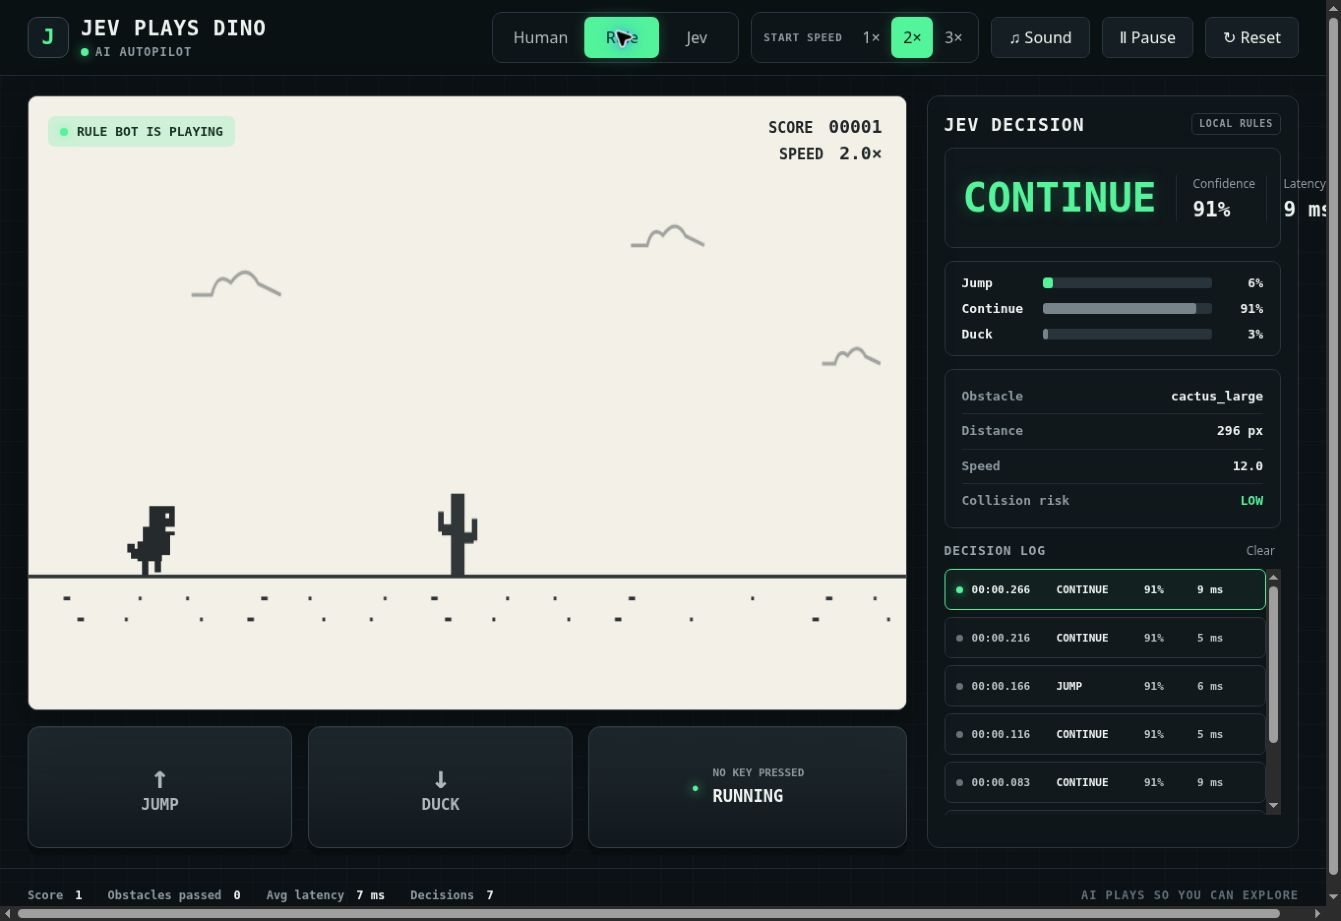
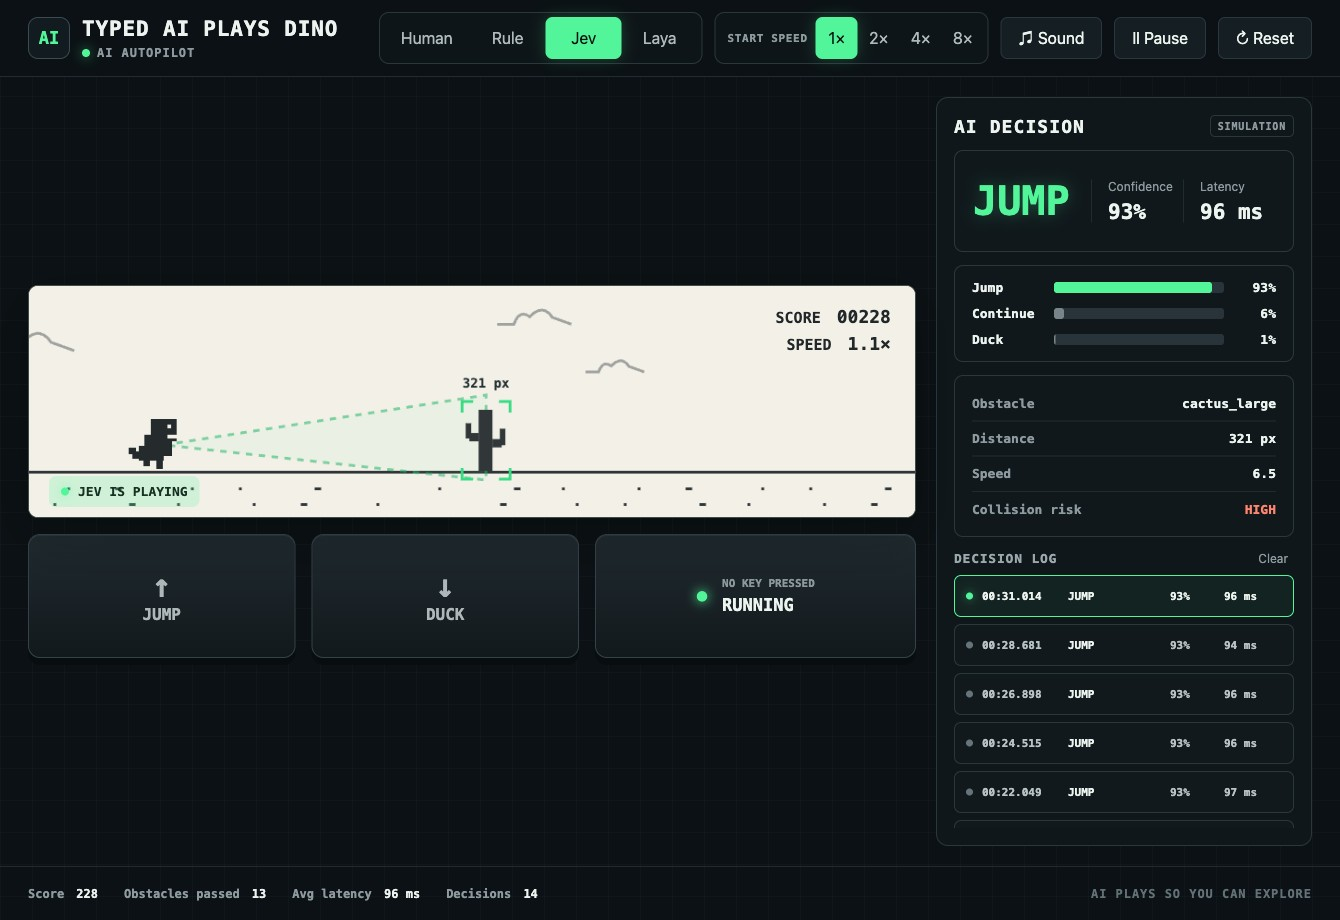
Add canvas aspect ratio handling and adjust dimensions for improved layout

diff --git a/web/styles.css b/web/styles.css
@@ -102,21 +102,20 @@ button { font: inherit; }
   padding: 20px 28px;
 }
 
-.game-column { min-width: 0; min-height: 0; display: flex; flex-direction: column; gap: 16px; }
+.game-column { min-width: 0; min-height: 0; display: flex; flex-direction: column; justify-content: center; gap: 16px; }
 .game-panel {
   position: relative;
-  min-height: 420px;
-  flex: 1;
   overflow: hidden;
   border: 1px solid #414b4b;
   border-radius: 10px;
   background: var(--cream);
   box-shadow: 0 18px 50px rgba(0,0,0,.2);
 }
-#game-canvas { display: block; width: 100%; height: 100%; min-height: 420px; }
-.game-badge, .canvas-stats { position: absolute; top: 20px; z-index: 2; }
-.game-badge { left: 20px; display: flex; align-items: center; gap: 9px; padding: 9px 12px; border-radius: 7px; color: #173123; background: rgba(82,245,154,.22); font: 700 13px/1 ui-monospace, SFMono-Regular, Menlo, monospace; }
-.canvas-stats { right: 24px; display: grid; gap: 5px; color: var(--ink); text-align: right; font: 700 15px/1.2 ui-monospace, SFMono-Regular, Menlo, monospace; }
+#game-canvas { display: block; width: 100%; aspect-ratio: 960 / 250; }
+.game-badge, .canvas-stats { position: absolute; z-index: 2; }
+/* 80% = GROUND / HEIGHT in app.js, so the badge sits just under the ground line at every panel width. */
+.game-badge { left: 20px; top: calc(80% + 4px); display: flex; align-items: center; gap: 9px; padding: 9px 12px; border-radius: 7px; color: #173123; background: rgba(82,245,154,.22); font: 700 13px/1 ui-monospace, SFMono-Regular, Menlo, monospace; }
+.canvas-stats { top: 20px; right: 24px; display: grid; gap: 5px; color: var(--ink); text-align: right; font: 700 15px/1.2 ui-monospace, SFMono-Regular, Menlo, monospace; }
 .canvas-stats strong { margin-left: 7px; font-size: 18px; }
 .game-over { position: absolute; inset: 0; z-index: 3; display: grid; place-content: center; gap: 12px; text-align: center; color: var(--ink); background: rgba(243,240,232,.88); backdrop-filter: blur(2px); }
 .game-over.hidden { display: none; }
@@ -192,7 +191,6 @@ button { font: inherit; }
   .app-shell { height: auto; min-height: 100vh; overflow: visible; }
   .workspace { min-height: auto; overflow: visible; grid-template-columns: 1fr; }
   .inspector { height: min(760px, calc(100dvh - 28px)); min-height: 640px; }
-  .game-panel { min-height: 480px; }
 }
 
 @media (max-width: 720px) {
@@ -205,13 +203,19 @@ button { font: inherit; }
   .control-button { padding: 0 12px; }
   .control-button span { display: none; }
   .workspace { padding: 14px 12px; }
-  .game-panel, #game-canvas { min-height: 360px; }
+  .game-badge { padding: 5px 8px; font-size: 11px; }
   .key-row { min-height: 108px; grid-template-columns: 1fr 1fr; }
   .running-state { grid-column: 1 / -1; min-height: 72px; }
   .decision-card { align-items: flex-start; flex-direction: column; }
   .decision-meta { width: 100%; }
   .statusbar { flex-wrap: wrap; gap: 10px 18px; padding: 12px 16px; }
   .footer-note { display: none; }
+}
+
+@media (max-width: 480px) {
+  .game-badge { display: none; }
+  .canvas-stats { top: 8px; right: 10px; gap: 2px; font-size: 11px; }
+  .canvas-stats strong { margin-left: 4px; font-size: 12px; }
 }
 
 @media (prefers-reduced-motion: reduce) {

diff --git a/web/app.test.js b/web/app.test.js
@@ -145,3 +145,41 @@ test("game speed presets are 1x, 2x, 4x, and 8x", () => {
   assert.deepEqual(speedButtons, [1, 2, 4, 8]);
   assert.match(app, /\[1, 2, 4, 8\]\.includes\(multiplier\)/);
 });
+
+test("game canvas keeps a wide fixed aspect ratio instead of stretching to the panel", () => {
+  const canvasRule = cssRule("#game-canvas");
+  const [, width, height] = html.match(/<canvas id="game-canvas" width="(\d+)" height="(\d+)"/).map(Number);
+
+  assert.match(canvasRule, new RegExp(`aspect-ratio:\\s*${width}\\s*/\\s*${height}\\b`));
+  assert.doesNotMatch(canvasRule, /height:\s*100%/);
+  assert.doesNotMatch(canvasRule, /min-height/);
+  assert.doesNotMatch(styles, /\.game-panel[^{]*\{[^}]*(min-height|flex:\s*1)/);
+  assert.ok(width / height >= 3.5, "canvas should stay close to the 4:1 strip of the Chrome game");
+});
+
+test("canvas constants match the markup and keep the scene inside the frame", () => {
+  const constant = name => Number(app.match(new RegExp(`const ${name} = (-?[\\d.]+);`))?.[1]);
+  const [, width, height] = html.match(/<canvas id="game-canvas" width="(\d+)" height="(\d+)"/).map(Number);
+  const dinoHeight = Number(app.match(/const dino = \{[^}]*height: (\d+)/)?.[1]);
+  const jumpApex = constant("GROUND") - dinoHeight - constant("JUMP_VELOCITY") ** 2 / (2 * constant("GRAVITY"));
+  // drawGround places its lowest dots at GROUND + 35 with a 3 px height.
+  const groundTextureDepth = 38;
+
+  assert.equal(constant("WIDTH"), width);
+  assert.equal(constant("HEIGHT"), height);
+  assert.ok(jumpApex >= 0, `jump apex at y=${jumpApex} is clipped by the top edge`);
+  assert.ok(constant("GROUND") + groundTextureDepth <= height, "ground texture is clipped by the bottom edge");
+  assert.match(cssRule(".game-badge"), new RegExp(`top:\\s*calc\\(${Math.round(constant("GROUND") / height * 100)}% \\+ \\d+px\\)`));
+  assert.match(app, /drawCloud\([^,]+, GROUND - \d+, [\d.]+\)/);
+  assert.doesNotMatch(app, /drawCloud\([^,]+, \d+, [\d.]+\)/);
+});
+
+test("canvas renders at device pixel ratio while CSS owns the displayed size", () => {
+  const sizeCanvas = app.match(/function sizeCanvas\(\)\s*\{([\s\S]*?)\n  \}/)?.[1] || "";
+
+  assert.match(sizeCanvas, /canvas\.width = Math\.round\(WIDTH \* dpr\)/);
+  assert.match(sizeCanvas, /canvas\.height = Math\.round\(HEIGHT \* dpr\)/);
+  assert.match(sizeCanvas, /ctx\.setTransform\(dpr, 0, 0, dpr, 0, 0\)/);
+  assert.match(app, /window\.addEventListener\("resize", sizeCanvas\)/);
+  assert.ok(app.indexOf("sizeCanvas();") < app.indexOf("requestAnimationFrame(loop);\n})();"));
+});

diff --git a/web/app.js b/web/app.js
@@ -13,8 +13,8 @@
   ].map(id => [id, document.getElementById(id)]));
 
   const WIDTH = 960;
-  const HEIGHT = 500;
-  const GROUND = 390;
+  const HEIGHT = 250;
+  const GROUND = 200;
   const DINO_X = 108;
   const BASE_SPEED = 6;
   const MAX_SPEED_GAIN = 5.5;
@@ -566,13 +566,22 @@
     els["average-latency"].textContent = average === null ? "—" : `${average} ms`;
   }
 
+  function sizeCanvas() {
+    // Render at device resolution so pixel-art edges stay crisp on HiDPI screens.
+    // The CSS aspect-ratio owns the displayed size.
+    const dpr = Math.min(3, Math.max(1, window.devicePixelRatio || 1));
+    canvas.width = Math.round(WIDTH * dpr);
+    canvas.height = Math.round(HEIGHT * dpr);
+    ctx.setTransform(dpr, 0, 0, dpr, 0, 0);
+  }
+
   function draw() {
     ctx.clearRect(0, 0, WIDTH, HEIGHT);
     ctx.fillStyle = "#f3f0e8";
     ctx.fillRect(0, 0, WIDTH, HEIGHT);
-    drawCloud(180 - frame * .12 % 1100, 142, 1);
-    drawCloud(660 - frame * .08 % 1200, 105, .82);
-    drawCloud(870 - frame * .14 % 1300, 205, .65);
+    drawCloud(180 - frame * .12 % 1100, GROUND - 150, 1);
+    drawCloud(660 - frame * .08 % 1200, GROUND - 175, .82);
+    drawCloud(870 - frame * .14 % 1300, GROUND - 120, .65);
     drawGround();
     const nearest = nearestObstacle();
     if ((mode === "jev" || mode === "laya") && nearest && nearest.x < 570) drawSensing(nearest);
@@ -730,11 +739,14 @@
     }
   });
 
+  window.addEventListener("resize", sizeCanvas);
+
   document.addEventListener("pointerdown", unlockAudio, { once: true });
   document.addEventListener("keydown", unlockAudio, { once: true });
 
   loadEngineStatus();
   updateSoundButton();
   resetGame();
+  sizeCanvas();
   requestAnimationFrame(loop);
 })();

diff --git a/web/index.html b/web/index.html
@@ -41,7 +41,7 @@
     <main class="workspace">
       <section class="game-column" aria-label="Dinosaur game">
         <div class="game-panel">
-          <canvas id="game-canvas" width="960" height="500" aria-label="Dinosaur running game"></canvas>
+          <canvas id="game-canvas" width="960" height="250" aria-label="Dinosaur running game"></canvas>
           <div class="game-badge"><span class="badge-dot"></span><span id="player-label">JEV IS PLAYING</span></div>
           <div class="canvas-stats" aria-live="polite">
             <span>SCORE <strong id="canvas-score">00000</strong></span>
